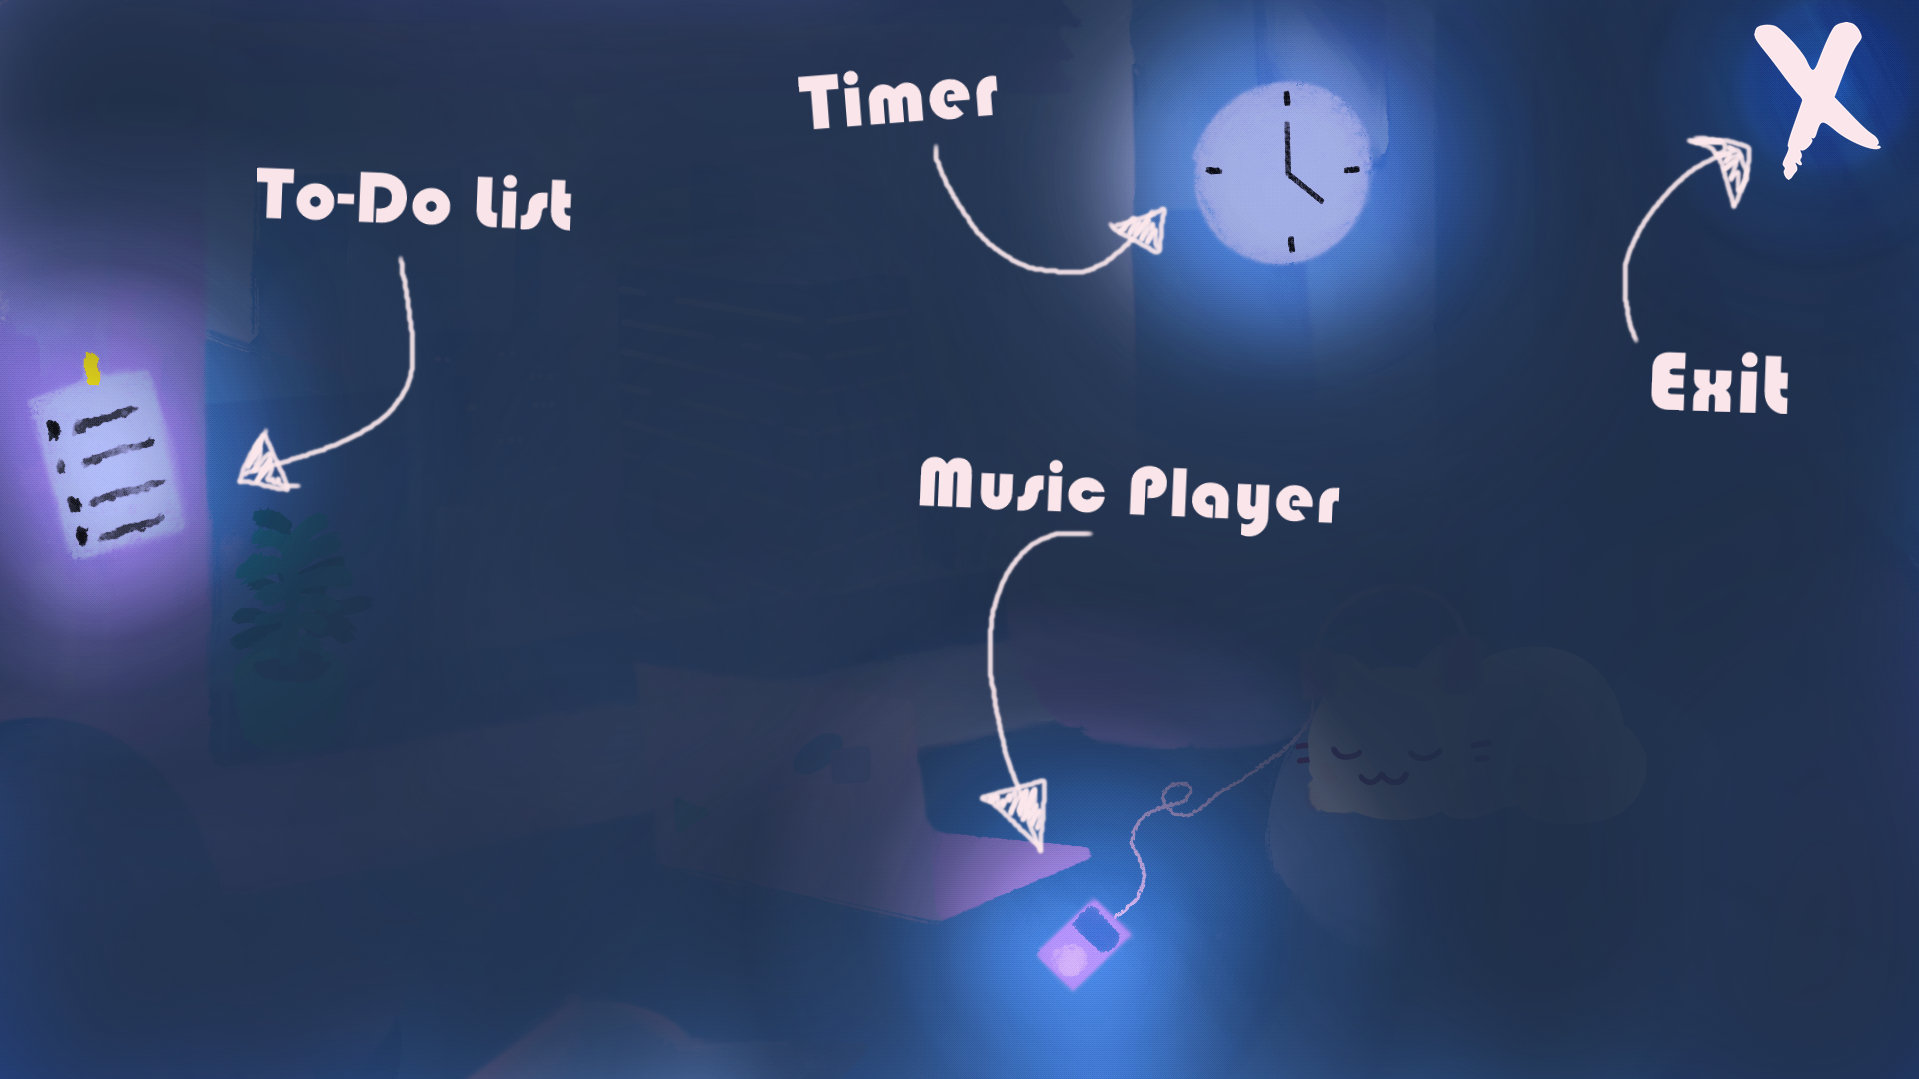
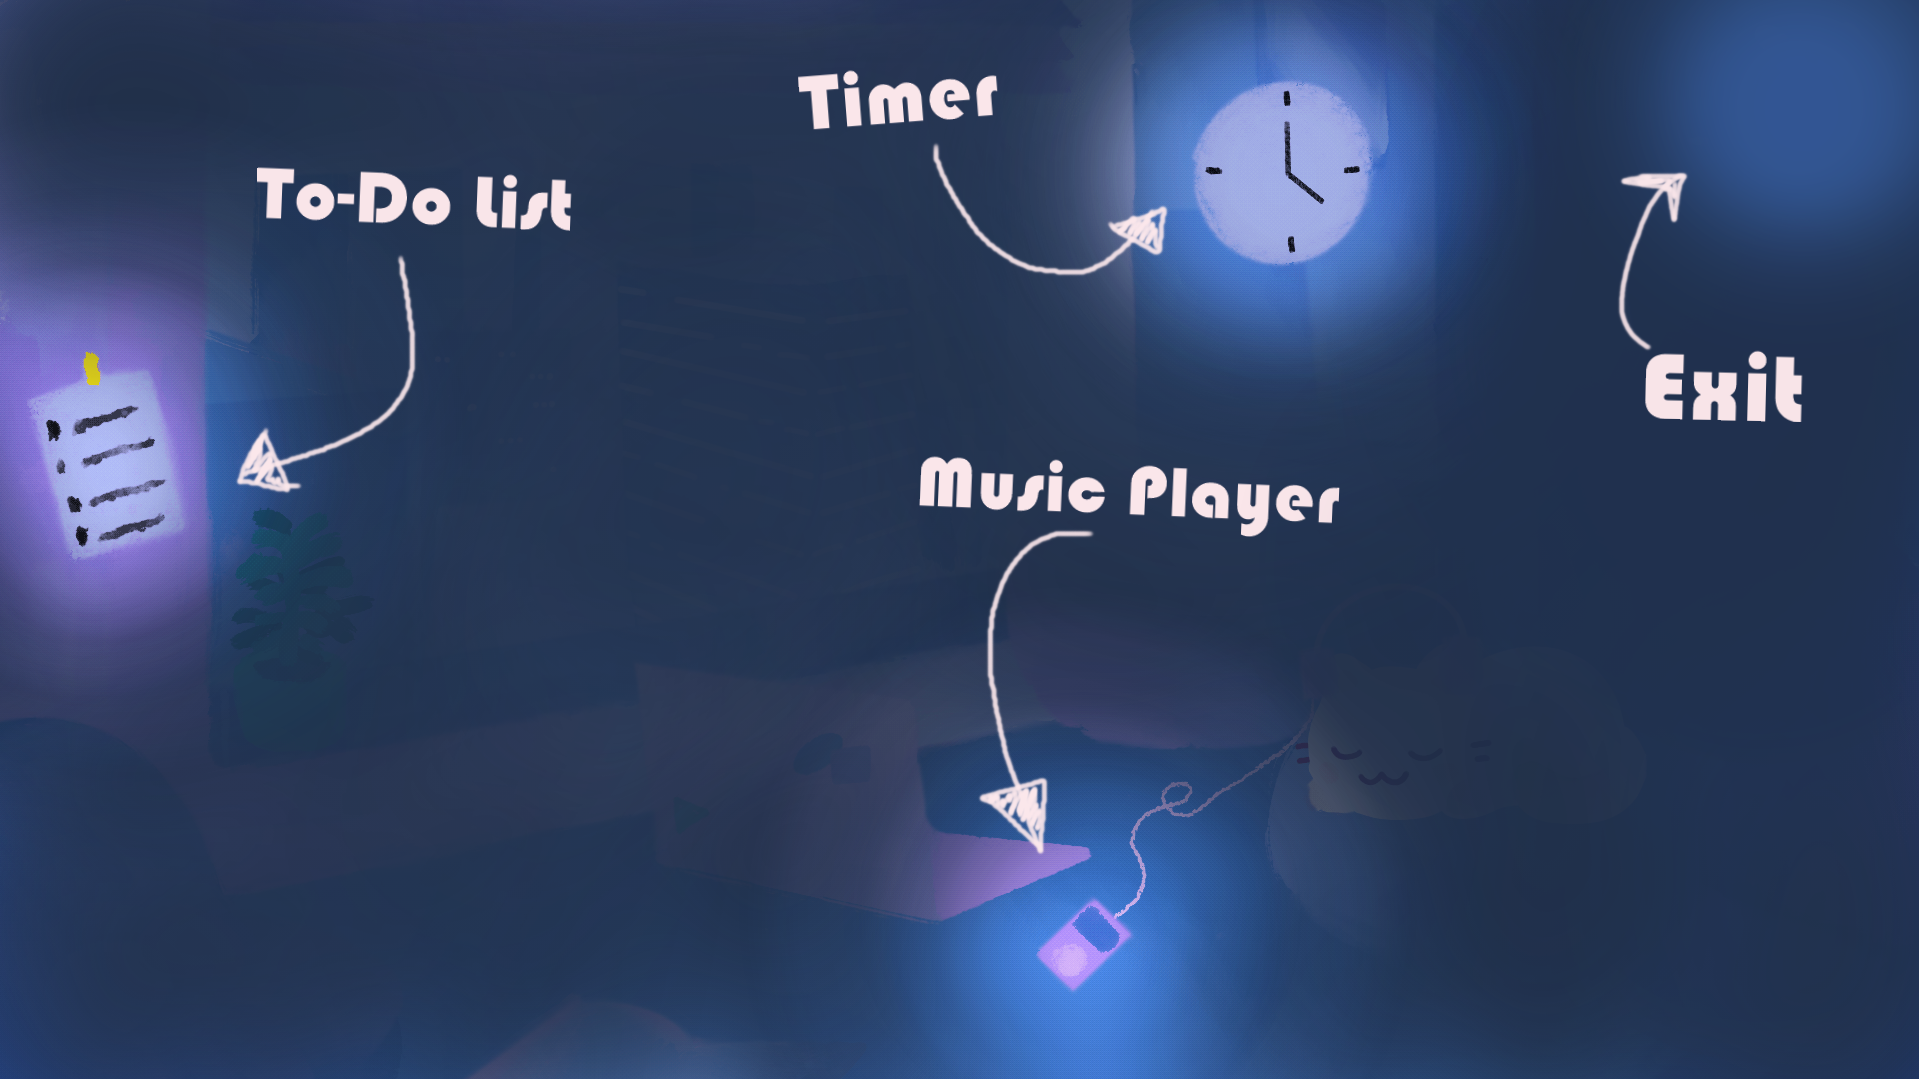
commit

Changed region(s): [[0.8301, 0.0, 1.0, 0.3058], [0.8301, 0.3058, 0.9531, 0.3976]]

diff --git a/Deneme/Form1.Designer.cs b/Deneme/Form1.Designer.cs
@@ -39,9 +39,9 @@ namespace Deneme
             this.playingGroupLabel = new System.Windows.Forms.Label();
             this.notebookFormOpenButtonL = new System.Windows.Forms.Label();
             this.activityLabel = new System.Windows.Forms.Label();
+            this.informationButton = new System.Windows.Forms.Button();
             this.hideRainButton = new System.Windows.Forms.Button();
             this.quitButton = new System.Windows.Forms.Button();
-            this.informationButton = new System.Windows.Forms.Button();
             ((System.ComponentModel.ISupportInitialize)(this.mainPicturBox)).BeginInit();
             this.SuspendLayout();
             // 
@@ -148,16 +148,36 @@ namespace Deneme
             this.activityLabel.TabIndex = 7;
             this.activityLabel.Text = "(Activity)";
             // 
+            // informationButton
+            // 
+            this.informationButton.BackColor = System.Drawing.Color.Transparent;
+            this.informationButton.BackgroundImage = global::Deneme.Properties.Resources.questionMark3;
+            this.informationButton.BackgroundImageLayout = System.Windows.Forms.ImageLayout.Stretch;
+            this.informationButton.Cursor = System.Windows.Forms.Cursors.Hand;
+            this.informationButton.FlatAppearance.BorderSize = 0;
+            this.informationButton.FlatAppearance.MouseDownBackColor = System.Drawing.Color.Transparent;
+            this.informationButton.FlatAppearance.MouseOverBackColor = System.Drawing.Color.Transparent;
+            this.informationButton.FlatStyle = System.Windows.Forms.FlatStyle.Flat;
+            this.informationButton.ForeColor = System.Drawing.Color.Transparent;
+            this.informationButton.Location = new System.Drawing.Point(1844, 121);
+            this.informationButton.Name = "informationButton";
+            this.informationButton.Size = new System.Drawing.Size(61, 77);
+            this.informationButton.TabIndex = 17;
+            this.informationButton.TabStop = false;
+            this.informationButton.UseVisualStyleBackColor = false;
+            this.informationButton.Click += new System.EventHandler(this.informationButton_Click);
+            // 
             // hideRainButton
             // 
             this.hideRainButton.BackColor = System.Drawing.Color.Transparent;
+            this.hideRainButton.BackgroundImage = global::Deneme.Properties.Resources.windowButton;
             this.hideRainButton.Cursor = System.Windows.Forms.Cursors.Default;
             this.hideRainButton.FlatAppearance.BorderSize = 0;
             this.hideRainButton.FlatAppearance.MouseDownBackColor = System.Drawing.Color.Transparent;
             this.hideRainButton.FlatAppearance.MouseOverBackColor = System.Drawing.Color.Transparent;
             this.hideRainButton.FlatStyle = System.Windows.Forms.FlatStyle.Flat;
             this.hideRainButton.ForeColor = System.Drawing.Color.Transparent;
-            this.hideRainButton.Location = new System.Drawing.Point(207, 0);
+            this.hideRainButton.Location = new System.Drawing.Point(208, -1);
             this.hideRainButton.Name = "hideRainButton";
             this.hideRainButton.Size = new System.Drawing.Size(925, 682);
             this.hideRainButton.TabIndex = 15;
@@ -184,25 +204,6 @@ namespace Deneme
             this.quitButton.UseVisualStyleBackColor = false;
             this.quitButton.Click += new System.EventHandler(this.quitButton_Click);
             // 
-            // informationButton
-            // 
-            this.informationButton.BackColor = System.Drawing.Color.Transparent;
-            this.informationButton.BackgroundImage = global::Deneme.Properties.Resources.questionMark3;
-            this.informationButton.BackgroundImageLayout = System.Windows.Forms.ImageLayout.Stretch;
-            this.informationButton.Cursor = System.Windows.Forms.Cursors.Hand;
-            this.informationButton.FlatAppearance.BorderSize = 0;
-            this.informationButton.FlatAppearance.MouseDownBackColor = System.Drawing.Color.Transparent;
-            this.informationButton.FlatAppearance.MouseOverBackColor = System.Drawing.Color.Transparent;
-            this.informationButton.FlatStyle = System.Windows.Forms.FlatStyle.Flat;
-            this.informationButton.ForeColor = System.Drawing.Color.Transparent;
-            this.informationButton.Location = new System.Drawing.Point(1844, 121);
-            this.informationButton.Name = "informationButton";
-            this.informationButton.Size = new System.Drawing.Size(61, 77);
-            this.informationButton.TabIndex = 17;
-            this.informationButton.TabStop = false;
-            this.informationButton.UseVisualStyleBackColor = false;
-            this.informationButton.Click += new System.EventHandler(this.informationButton_Click);
-            // 
             // Form1
             // 
             this.AutoScaleDimensions = new System.Drawing.SizeF(6F, 13F);
@@ -220,6 +221,7 @@ namespace Deneme
             this.Controls.Add(this.countdownLabel);
             this.Controls.Add(this.timerFormOpenButton);
             this.Controls.Add(this.mainPicturBox);
+            this.FormBorderStyle = System.Windows.Forms.FormBorderStyle.None;
             this.Name = "Form1";
             this.Text = "Form1";
             this.Load += new System.EventHandler(this.Form1_Load);
@@ -230,8 +232,6 @@ namespace Deneme
         }
 
         #endregion
-
-        private System.Windows.Forms.PictureBox mainPicturBox;
         private System.Windows.Forms.Button timerFormOpenButton;
         public System.Windows.Forms.Timer timer1;
         public System.Windows.Forms.Label countdownLabel;
@@ -240,9 +240,10 @@ namespace Deneme
         public System.Windows.Forms.Label playingGroupLabel;
         public System.Windows.Forms.Label notebookFormOpenButtonL;
         public System.Windows.Forms.Label activityLabel;
-        public System.Windows.Forms.Button hideRainButton;
-        private System.Windows.Forms.Button quitButton;
         private System.Windows.Forms.Button informationButton;
+        public System.Windows.Forms.Button hideRainButton;
+        private System.Windows.Forms.PictureBox mainPicturBox;
+        private System.Windows.Forms.Button quitButton;
     }
 }
 

diff --git a/Deneme/ToDoForm.Designer.cs b/Deneme/ToDoForm.Designer.cs
@@ -48,52 +48,52 @@ namespace Deneme
             // 
             this.textBox1.BackColor = System.Drawing.Color.FromArgb(((int)(((byte)(199)))), ((int)(((byte)(191)))), ((int)(((byte)(230)))));
             this.textBox1.BorderStyle = System.Windows.Forms.BorderStyle.None;
-            this.textBox1.Font = new System.Drawing.Font("Microsoft Sans Serif", 15F);
+            this.textBox1.Font = new System.Drawing.Font("Microsoft Sans Serif", 19F);
             this.textBox1.ForeColor = System.Drawing.SystemColors.WindowText;
-            this.textBox1.Location = new System.Drawing.Point(237, 214);
+            this.textBox1.Location = new System.Drawing.Point(237, 213);
             this.textBox1.Name = "textBox1";
             this.textBox1.RightToLeft = System.Windows.Forms.RightToLeft.No;
-            this.textBox1.Size = new System.Drawing.Size(343, 23);
+            this.textBox1.Size = new System.Drawing.Size(343, 29);
             this.textBox1.TabIndex = 5;
             // 
             // textBox2
             // 
             this.textBox2.BackColor = System.Drawing.Color.FromArgb(((int)(((byte)(199)))), ((int)(((byte)(191)))), ((int)(((byte)(230)))));
             this.textBox2.BorderStyle = System.Windows.Forms.BorderStyle.None;
-            this.textBox2.Font = new System.Drawing.Font("Microsoft Sans Serif", 15F);
-            this.textBox2.Location = new System.Drawing.Point(237, 282);
+            this.textBox2.Font = new System.Drawing.Font("Microsoft Sans Serif", 19F);
+            this.textBox2.Location = new System.Drawing.Point(238, 282);
             this.textBox2.Name = "textBox2";
-            this.textBox2.Size = new System.Drawing.Size(343, 23);
+            this.textBox2.Size = new System.Drawing.Size(343, 29);
             this.textBox2.TabIndex = 6;
             // 
             // textBox3
             // 
             this.textBox3.BackColor = System.Drawing.Color.FromArgb(((int)(((byte)(199)))), ((int)(((byte)(191)))), ((int)(((byte)(230)))));
             this.textBox3.BorderStyle = System.Windows.Forms.BorderStyle.None;
-            this.textBox3.Font = new System.Drawing.Font("Microsoft Sans Serif", 15F);
+            this.textBox3.Font = new System.Drawing.Font("Microsoft Sans Serif", 19F);
             this.textBox3.Location = new System.Drawing.Point(237, 350);
             this.textBox3.Name = "textBox3";
-            this.textBox3.Size = new System.Drawing.Size(343, 23);
+            this.textBox3.Size = new System.Drawing.Size(343, 29);
             this.textBox3.TabIndex = 7;
             // 
             // textBox4
             // 
             this.textBox4.BackColor = System.Drawing.Color.FromArgb(((int)(((byte)(199)))), ((int)(((byte)(191)))), ((int)(((byte)(230)))));
             this.textBox4.BorderStyle = System.Windows.Forms.BorderStyle.None;
-            this.textBox4.Font = new System.Drawing.Font("Microsoft Sans Serif", 15F);
+            this.textBox4.Font = new System.Drawing.Font("Microsoft Sans Serif", 19F);
             this.textBox4.Location = new System.Drawing.Point(237, 418);
             this.textBox4.Name = "textBox4";
-            this.textBox4.Size = new System.Drawing.Size(343, 23);
+            this.textBox4.Size = new System.Drawing.Size(343, 29);
             this.textBox4.TabIndex = 8;
             // 
             // textBox5
             // 
             this.textBox5.BackColor = System.Drawing.Color.FromArgb(((int)(((byte)(199)))), ((int)(((byte)(191)))), ((int)(((byte)(230)))));
             this.textBox5.BorderStyle = System.Windows.Forms.BorderStyle.None;
-            this.textBox5.Font = new System.Drawing.Font("Microsoft Sans Serif", 15F);
+            this.textBox5.Font = new System.Drawing.Font("Microsoft Sans Serif", 19F);
             this.textBox5.Location = new System.Drawing.Point(237, 487);
             this.textBox5.Name = "textBox5";
-            this.textBox5.Size = new System.Drawing.Size(343, 23);
+            this.textBox5.Size = new System.Drawing.Size(343, 29);
             this.textBox5.TabIndex = 9;
             // 
             // saveButtonL

diff --git a/Deneme/informationForm.Designer.cs b/Deneme/informationForm.Designer.cs
@@ -29,27 +29,36 @@ namespace Deneme
         /// </summary>
         private void InitializeComponent()
         {
-            this.closeFormButtonL = new System.Windows.Forms.Label();
+            this.quitButton = new System.Windows.Forms.Button();
             this.SuspendLayout();
             // 
-            // closeFormButtonL
+            // quitButton
             // 
-            this.closeFormButtonL.BackColor = System.Drawing.Color.Transparent;
-            this.closeFormButtonL.Cursor = System.Windows.Forms.Cursors.Hand;
-            this.closeFormButtonL.Location = new System.Drawing.Point(1743, 21);
-            this.closeFormButtonL.Name = "closeFormButtonL";
-            this.closeFormButtonL.Size = new System.Drawing.Size(150, 162);
-            this.closeFormButtonL.TabIndex = 6;
-            this.closeFormButtonL.Click += new System.EventHandler(this.closeFormButtonL_Click);
+            this.quitButton.BackColor = System.Drawing.Color.Transparent;
+            this.quitButton.BackgroundImage = global::Deneme.Properties.Resources.Image005;
+            this.quitButton.BackgroundImageLayout = System.Windows.Forms.ImageLayout.Stretch;
+            this.quitButton.Cursor = System.Windows.Forms.Cursors.Hand;
+            this.quitButton.FlatAppearance.BorderSize = 0;
+            this.quitButton.FlatAppearance.MouseDownBackColor = System.Drawing.Color.Transparent;
+            this.quitButton.FlatAppearance.MouseOverBackColor = System.Drawing.Color.Transparent;
+            this.quitButton.FlatStyle = System.Windows.Forms.FlatStyle.Flat;
+            this.quitButton.ForeColor = System.Drawing.Color.Transparent;
+            this.quitButton.Location = new System.Drawing.Point(1757, 58);
+            this.quitButton.Name = "quitButton";
+            this.quitButton.Size = new System.Drawing.Size(93, 82);
+            this.quitButton.TabIndex = 17;
+            this.quitButton.TabStop = false;
+            this.quitButton.UseVisualStyleBackColor = false;
+            this.quitButton.Click += new System.EventHandler(this.quitButton_Click);
             // 
             // informationForm
             // 
             this.AutoScaleDimensions = new System.Drawing.SizeF(6F, 13F);
             this.AutoScaleMode = System.Windows.Forms.AutoScaleMode.Font;
             this.BackgroundImage = global::Deneme.Properties.Resources.informationFrame;
-            this.ClientSize = new System.Drawing.Size(1919, 1020);
+            this.ClientSize = new System.Drawing.Size(1924, 1061);
             this.ControlBox = false;
-            this.Controls.Add(this.closeFormButtonL);
+            this.Controls.Add(this.quitButton);
             this.FormBorderStyle = System.Windows.Forms.FormBorderStyle.None;
             this.Name = "informationForm";
             this.Text = "informationForm";
@@ -60,6 +69,6 @@ namespace Deneme
 
         #endregion
 
-        private System.Windows.Forms.Label closeFormButtonL;
+        private System.Windows.Forms.Button quitButton;
     }
 }

diff --git a/Deneme/MusicSelectForm.cs b/Deneme/MusicSelectForm.cs
@@ -38,7 +38,18 @@ namespace Deneme
             sPlayer.controls.stop();
             sPlayer.URL = soundLocs[soundIndexFunc];
             sPlayer.controls.play();
-            sPlayer.settings.volume = musicTrackBar.Value * 5;
+
+            if (muteSound)
+            {
+                musicTrackBar.Enabled = false;
+                sPlayer.settings.volume = 0;
+            } 
+            else
+            {
+                musicTrackBar.Enabled = true;
+                sPlayer.settings.volume = musicTrackBar.Value * 5;
+            }
+            
             this.mainForm.playingMusicLabel.Text = musicName[soundIndexFunc];
             this.mainForm.playingGroupLabel.Text = musicGroup[soundIndexFunc];
             soundIndex++;
@@ -64,7 +75,7 @@ namespace Deneme
 
         private void music1ButtonL_Click(object sender, EventArgs e)
         {
-            musicTrackBar.Enabled = true;
+            //musicTrackBar.Enabled = true;
             //sPlayer.controls.stop();
             //sPlayer.URL = "Lost Dreams.wav";
             this.mainForm.playingMusicLabel.Text = "Lost Dreams";
@@ -76,7 +87,7 @@ namespace Deneme
 
         private void music2ButtonL_Click(object sender, EventArgs e)
         {
-            musicTrackBar.Enabled = true;
+            //musicTrackBar.Enabled = true;
             //sPlayer.controls.stop();
             //sPlayer.URL = "Resonance.wav";
             this.mainForm.playingMusicLabel.Text = "Resonance";
@@ -88,7 +99,7 @@ namespace Deneme
 
         private void music3ButtonL_Click(object sender, EventArgs e)
         {
-            musicTrackBar.Enabled = true;
+            //musicTrackBar.Enabled = true;
             //sPlayer.controls.stop();
             //sPlayer.URL = "Self-Discovery.wav";
             this.mainForm.playingMusicLabel.Text = "Self-Discovery";
@@ -100,7 +111,7 @@ namespace Deneme
 
         private void music4ButtonL_Click(object sender, EventArgs e)
         {
-            musicTrackBar.Enabled = true;
+            //musicTrackBar.Enabled = true;
             //sPlayer.controls.stop();
             //sPlayer.URL = "Wii Music.wav";
             this.mainForm.playingMusicLabel.Text = "Wii Music";
@@ -112,7 +123,7 @@ namespace Deneme
 
         private void music5ButtonL_Click(object sender, EventArgs e)
         {
-            musicTrackBar.Enabled = true;
+            //musicTrackBar.Enabled = true;
             //sPlayer.controls.stop();
             //sPlayer.URL = "Windows96.wav";
             this.mainForm.playingMusicLabel.Text = "Caligula";

diff --git a/Deneme/Form1.cs b/Deneme/Form1.cs
@@ -32,11 +32,10 @@ namespace Deneme
         public Form1()
         {
             InitializeComponent();
-            FormBorderStyle = FormBorderStyle.None;
             WindowState = FormWindowState.Maximized;
             musicForm = new MusicSelectForm(this);
             toForm = new ToDoForm();
-            inform = new informationForm();
+            inform = new informationForm(this);
         }
 
         private void Form1_Load(object sender, EventArgs e)
@@ -100,14 +99,25 @@ namespace Deneme
 
         private void informationButton_Click(object sender, EventArgs e)
         {
-
+            //groupBox1.Visible = true;
+            //closePanelButton.Enabled = true;
             inform.Visible = true;
-            
+
         }
 
         private void hideRainButton_Click(object sender, EventArgs e)
         {
 
+        }
+
+
+        private void closePanelButton_Click_1(object sender, EventArgs e)
+        {
+            //this.Focus();
+            //groupBox1.Visible = false;
+            //this.Focus();
+            //closePanelButton.Enabled = false;
+            //this.Focus();
         }
     }
     

diff --git a/Deneme/informationForm.cs b/Deneme/informationForm.cs
@@ -17,19 +17,23 @@ namespace Deneme
             InitializeComponent();
         }
 
+        private Form1 mainForm = null;
+        public informationForm(Form callingForm)
+        {
+            WindowState = FormWindowState.Maximized;
+            mainForm = callingForm as Form1;
+            InitializeComponent();
+        }
+
 
         private void informationForm_Load(object sender, EventArgs e)
         {
             this.Focus();
-            FormBorderStyle = FormBorderStyle.None;
-            WindowState = FormWindowState.Maximized;
 
         }
-
-        private void closeFormButtonL_Click(object sender, EventArgs e)
+        private void quitButton_Click(object sender, EventArgs e)
         {
             this.Visible = false;
-
         }
     }
 }

diff --git a/Deneme/Properties/Resources.Designer.cs b/Deneme/Properties/Resources.Designer.cs
@@ -169,5 +169,15 @@ namespace Deneme.Properties {
                 return ((System.Drawing.Bitmap)(obj));
             }
         }
+        
+        /// <summary>
+        ///   System.Drawing.Bitmap türünde yerelleştirilmiş bir kaynak arar.
+        /// </summary>
+        internal static System.Drawing.Bitmap windowButton {
+            get {
+                object obj = ResourceManager.GetObject("windowButton", resourceCulture);
+                return ((System.Drawing.Bitmap)(obj));
+            }
+        }
     }
 }
